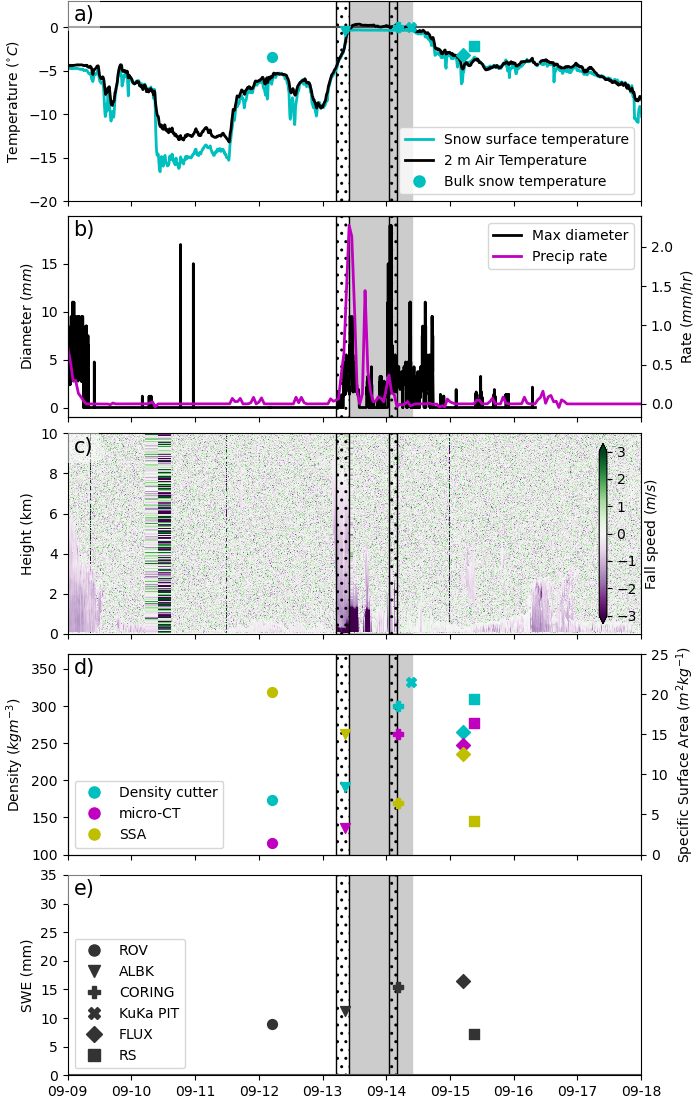
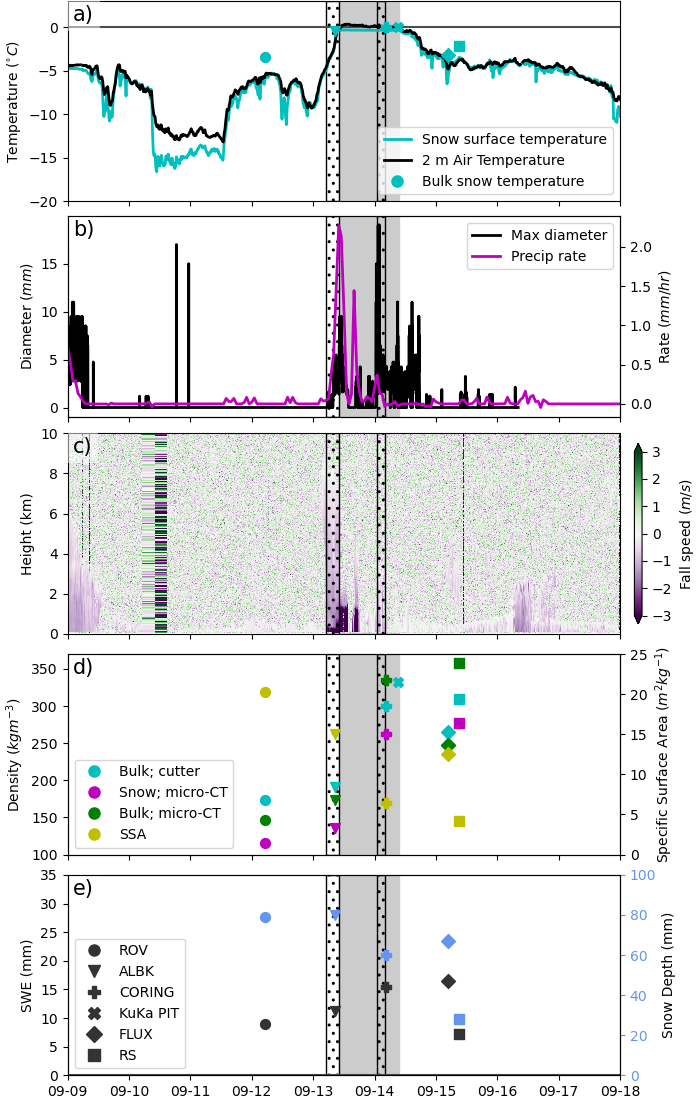
fix colorbar position

diff --git a/source/plot_snowdata_and_met.py b/source/plot_snowdata_and_met.py
@@ -269,7 +269,7 @@ def plot_fall_speed(kazrdata, ax=None, fig_label=None):
 
     cb_kwargs = {"shrink": 0.9,
                  "orientation": "vertical",
-                 "pad": -0.08,
+                 "pad": 0.01,
                  "aspect": 15,
                  "label": "Fall speed ($m/s$)"}
 
